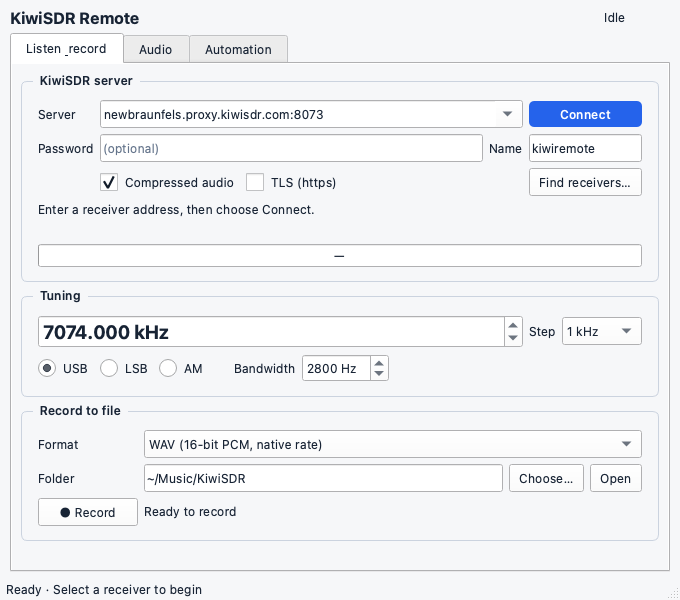
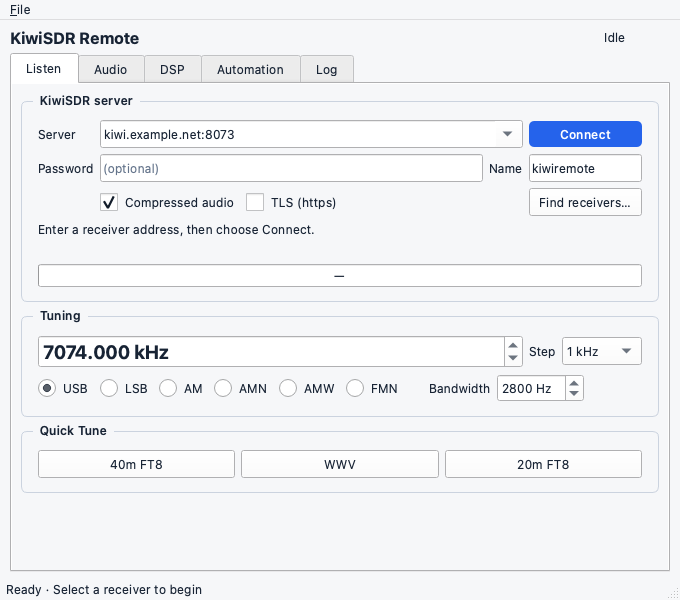
Refresh desktop screenshots and sync macOS bundle version

Changed region(s): [[0.0309, 0.42, 0.9574, 0.87], [0.0, 0.0, 0.9882, 0.39], [0.8956, 0.03, 0.9265, 0.09]]

diff --git a/README.md b/README.md
@@ -11,8 +11,6 @@ control, recording and security improvements developed from that codebase.
 
 See the [changelog](CHANGELOG.md) for release details.
 
-![Compact light-mode interface](docs/images/main-window.png)
-
 ## What it does
 
 - **Tune:** USB, LSB, AM, AMN, AMW and FMN, with adjustable bandwidth and receiver-specific frequency limits.
@@ -104,6 +102,24 @@ Keyboard shortcuts use Ctrl on Windows/Linux and Command on macOS:
 | Ctrl/Command+F | Focus frequency |
 | Ctrl/Command+R | Start or stop recording |
 | Ctrl/Command+Return | Connect or disconnect |
+
+## Desktop screenshots
+
+### Listen
+
+![Listen tab showing receiver connection, tuning modes, and Quick Tune presets](docs/images/main-window.png)
+
+### Audio
+
+![Audio tab showing output device, gain, and Record to file](docs/images/audio-tab.png)
+
+### DSP
+
+![DSP tab showing Noise Blanker, Audio Bandpass, Manual Notch, Auto Notch, and Noise Reduction](docs/images/dsp-tab.png)
+
+### Automation
+
+![Automation tab showing Hamlib rigctld, the API, and session limits](docs/images/automation-tab.png)
 
 ## Hamlib, API and headless mode
 
